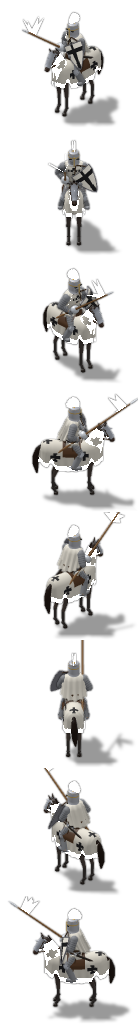
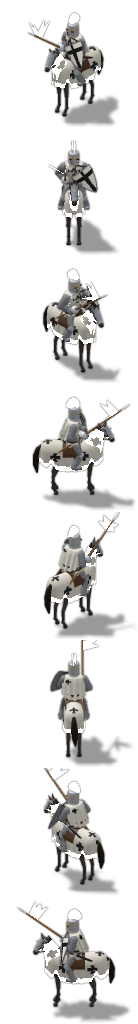
League units round 2c: the Hojo General falls onto his back (head and crest above the ground), holds a gourd-shaped gunbai with a thick gilt rim, cord and tassel out from the body, winds up from it in the attack, wears a larger sharp mitsu-uroko and a tachi slung outside the surcoat; polish on the p

diff --git a/ArtGen/units/models/league_hojo.py b/ArtGen/units/models/league_hojo.py
@@ -164,7 +164,7 @@ def g_hojo_menpo(g):
 # ------------------------------------------------------------ the jinbaori
 
 def g_hojo_jinbaori(g, mat='jinbaori', mon='mon', collar='collar_band', hem='jin_hem', length=0.50, flare=0.10,
-                    gap=0.065, open_front=38.0, mon_size=0.24):
+                    gap=0.065, open_front=38.0, mon_size=0.32):
     """The commander's campaign surcoat in the civ colour: over the
     shoulders and the armor, open in front, the skirts flaring to the knees
     and split at the back; a black band down the front edges and round the
@@ -179,11 +179,11 @@ def g_hojo_jinbaori(g, mat='jinbaori', mon='mon', collar='collar_band', hem='jin
     front = math.pi / 2
     of = math.radians(open_front)
     a0, a1 = front + of, front + 2 * math.pi - of
-    nA = 48
+    nA = 120
     angs = np.linspace(a0, a1, nA + 1)
 
     # the body: rows from the waist up over the shoulders (chest space)
-    zr = list(np.linspace(0.0, 0.27, 19)) + [0.29, 0.31, 0.325]
+    zr = list(np.linspace(0.0, 0.27, 46)) + [0.29, 0.31, 0.325]
     rows = []
     for z in zr:
         rx = float(np.interp(z, zs, [c[1] for c in chest])) + gap
@@ -205,7 +205,7 @@ def g_hojo_jinbaori(g, mat='jinbaori', mon='mon', collar='collar_band', hem='jin
         # the crest on the back: x the arc length from the centre of the back
         rx = 0.5 * (Pb[i, j, 0] ** 2 + Pb[i, j, 1] ** 2) ** 0.5 + 0.5 * (Pb[i + 1, j, 0] ** 2 + Pb[i + 1, j, 1] ** 2) ** 0.5
         x = (a - back) * rx * 0.92
-        if in_uroko(x, z - 0.14, mon_size):
+        if in_uroko(x, z - 0.135, mon_size, gap=0.08):
             return mm
         return jm
     out.append(('chest', grid_mesh(Pb, body_paint), None))
@@ -319,12 +319,21 @@ def g_hojo_kote(g, cloth='kote', plate='kote_plate'):
 
 
 def g_hojo_daisho(g):
-    """The katana and the wakizashi thrust through the sash at the left hip."""
+    """The general's tachi slung edge-down from the belt on its two hangers
+    at the left hip, outside the surcoat, hanging back at a natural angle;
+    the short wakizashi thrust through the sash in front."""
     from models.props_foot_ancient import katana_sheathed
     tw = g.tw
     k = katana_sheathed(g.mats)
-    out = [('pelvis', k.transformed(T(-0.24 * tw, 0.06, 0.06) @ M.rot_z(-4) @ M.rot_x(136)), None)]
-    out.append(('pelvis', k.transformed(T(-0.20 * tw, 0.10, 0.08) @ M.rot_z(-3) @ M.rot_x(128) @ M.scale(0.72)), None))
+    cord = g.m('lacing', '#c4503e')
+    x = -0.30 * tw
+    tachi = T(x, 0.10, 0.02) @ M.rot_y(-12) @ M.rot_x(136)
+    out = [('pelvis', k.transformed(tachi @ M.scale(0.86)), None)]
+    for d in (0.08, 0.22):
+        p0 = (tachi @ np.array([0, 0, d, 1], np.float32))[:3]
+        out.append(('pelvis', M.capsule((x * 0.82, p0[1], 0.10), tuple(p0), 0.009, 0.009, cord, seg=4, rings=1), None))
+    out.append(('pelvis', k.transformed(T(-0.10 * tw, 0.19 * tw, 0.10) @ M.rot_z(-30) @ M.rot_x(100)
+                                       @ M.scale(0.62)), None))
     return out
 
 
@@ -372,59 +381,83 @@ FA.register_extra(sys.modules[__name__])
 
 # ------------------------------------------------------------ props (grip at the origin, long axis +z)
 
+def _gourd(w=0.40, h=0.44, neck=0.09, n=40):
+    """The outline of a gunbai blade (x-z, centred on its base at z = 0):
+    a broad rounded top swelling from a narrow neck at the handle, the
+    gourd or pear shape of the real fans."""
+    pts = []
+    for k in range(n):
+        t = 2 * math.pi * k / n
+        # u from the base (0) to the top (1) and back
+        x0, z0 = math.sin(t), (1 - math.cos(t)) / 2
+        # wide at the top two thirds, pulled in toward the neck at the base
+        wz = 0.5 * w * (0.22 + 0.78 * math.sin(math.pi * min(1.0, z0 * 1.25 + 0.05)) ** 0.7)
+        pts.append((x0 * max(wz, neck / 2), z0 * h))
+    return pts
+
+
 def hojo_gunbai(mats, size=1.0):
-    """The gunbai: a lacquered iron war fan, a round blade on a short
-    handle; black, a gilt rim, a red sun on both faces; a red cord and
-    tassel from the pommel."""
+    """The gunbai: a lacquered war fan, a gourd-shaped blade on a stout
+    handle; black lacquer, a thick gilt rim, a red sun on both faces, a
+    gilt collar at the neck; a red cord from the pommel to a big tassel."""
     bm = P.mat(mats, 'gunbai', '#1e1c1a', spec=0.35, gloss=22)
     gm = P.mat(mats, 'gold', '#c4a050', spec=0.8, gloss=22, metal=True)
-    rm = P.mat(mats, 'sun', '#a8281e', spec=0.2)
-    cm = P.mat(mats, 'cord', '#8a2a22')
-    parts = [M.cylinder(0.018, 0.02, 0.24, bm, seg=8, z0=-0.10)]
-    parts.append(M.cylinder(0.026, 0.026, 0.02, gm, seg=8, z0=0.12))
-    parts.append(M.sphere(0.022, gm, (0, 0, -0.11), seg=8))
-    c = (0, 0, 0.33)
-    parts.append(M.disc(0.20, 0.21, 0.016, bm, seg=24).transformed(T(*c)))
-    parts.append(M.lathe([(-0.012, 0.20), (0.0, 0.212), (0.012, 0.20)], gm, seg=24).transformed(T(*c) @ M.rot_x(90)
-                                                                                                @ M.scale(1, 1.05, 1)))
+    rm = P.mat(mats, 'sun', '#b02a1e', spec=0.2)
+    cm = P.mat(mats, 'cord', '#a8322a')
+    parts = [M.cylinder(0.022, 0.024, 0.26, bm, seg=8, z0=-0.12)]
+    parts.append(M.cylinder(0.03, 0.03, 0.025, gm, seg=8, z0=0.115))
+    parts.append(M.sphere(0.026, gm, (0, 0, -0.13), seg=8))
+    base = 0.13
+    out = _gourd()
+    rim = [(x * 1.08, z * 1.06 - 0.012) for x, z in out]
+    # the blade (thin, in the x-z plane), the rim a thicker band behind its edge
+    parts.append(M.extrude(rim, 0.034, gm).transformed(T(0, 0, base)))
+    parts.append(M.extrude(out, 0.044, bm).transformed(T(0, 0, base)))
     for sy in (1, -1):
-        parts.append(M.disc(0.085, 0.085, 0.004, rm, seg=18).transformed(T(0, -sy * 0.01, c[2] + 0.02) @ M.rot_z(
-            0 if sy > 0 else 180)))
-    parts.append(M.capsule((0, 0, -0.12), (0.02, 0.02, -0.24), 0.008, 0.008, cm, seg=4, rings=1))
-    parts.append(M.capsule((0.02, 0.02, -0.24), (0.02, 0.02, -0.32), 0.022, 0.012, cm, seg=6, rings=1))
+        sun = M.disc(0.095, 0.095, 0.004, rm, seg=20).transformed(T(0, -sy * 0.024, base + 0.25) @ M.rot_z(
+            0 if sy > 0 else 180))
+        parts.append(sun)
+    # cord and tassel
+    parts.append(M.capsule((0, 0, -0.15), (0.03, 0.02, -0.26), 0.01, 0.01, cm, seg=4, rings=1))
+    parts.append(M.sphere(0.02, gm, (0.03, 0.02, -0.27), seg=6))
+    for a in range(6):
+        ang = 2 * math.pi * a / 6
+        parts.append(M.capsule((0.03, 0.02, -0.28), (0.03 + 0.025 * math.cos(ang), 0.02 + 0.025 * math.sin(ang), -0.40),
+                               0.012, 0.008, cm, seg=4, rings=1))
     return M.Mesh.concat(parts).transformed(M.scale(size))
 
 
 # ------------------------------------------------------------ the archetype
 
 def anim_death_general(base, ctx):
-    """Struck, he staggers, drops to his knees, and topples onto his side,
-    curled, an arm over his body: no spread-eagle, the skirts falling with
-    him."""
+    """Struck, he staggers back, his knees give and he falls onto his back,
+    one knee up, the fan arm flung out low beside him, the other hand at his
+    chest; the head and its crest stay above the ground (the stock deaths
+    end spread-eagled, the arms over the head)."""
     down = ctx.event('down', 0.55) if ctx is not None else 0.55
     down = min(max(down or 0.55, 0.35), 0.85)
     fk = {
         'thigh_r': (0, -4, 0), 'shin_r': (0, 0, 0), 'thigh_l': (0, 4, 0), 'shin_l': (0, 0, 0),
-        'arm_r': (20, -14, 0), 'forearm_r': (40, 0, 0), 'arm_l': (10, 14, 0), 'forearm_l': (30, 0, 0),
+        'arm_r': (30, -24, 0), 'forearm_r': (40, 0, 0), 'arm_l': (10, 14, 0), 'forearm_l': (30, 0, 0),
         'root_pos': (0, 0, 0), 'root_rot': (0, 0, 0), 'spine': (0, 0, 0), 'chest': (0, 0, 0), 'head': (0, 0, 0),
     }
     k = [
         (0.0, {}),
-        (0.18, {'root_rot': (14, 0, 6), 'root_pos': (0, -0.08, -0.03), 'chest': (14, 0, 6), 'head': (24, 0, 0),
-                'arm_r': (40, -30, 0), 'forearm_r': (70, 0, 0), 'arm_l': (50, 30, 0), 'forearm_l': (90, 0, 0),
-                'thigh_r': (12, -4, 0), 'shin_r': (-20, 0, 0)}),
-        (0.40, {'root_rot': (-10, 0, 8), 'root_pos': (0, 0.02, -0.40), 'chest': (-24, 0, 4), 'head': (-14, 0, 0),
-                'thigh_r': (95, -6, 0), 'shin_r': (-150, 0, 0), 'thigh_l': (90, 6, 0), 'shin_l': (-150, 0, 0),
-                'arm_r': (30, -20, 0), 'forearm_r': (60, 0, 0), 'arm_l': (60, 20, 0), 'forearm_l': (100, 0, 0)}),
-        (0.62, {'root_rot': (-20, 70, 10), 'root_pos': (0.30, 0.10, -0.70), 'chest': (-20, 0, 0), 'head': (-10, 10, 0),
-                'thigh_r': (80, -6, 0), 'shin_r': (-110, 0, 0), 'thigh_l': (70, 8, 0), 'shin_l': (-90, 0, 0),
-                'arm_r': (60, -10, 0), 'forearm_r': (40, 0, 0), 'arm_l': (50, 25, 0), 'forearm_l': (80, 0, 0)}),
-        (0.80, {'root_rot': (-14, 86, 8), 'root_pos': (0.38, 0.12, -0.76), 'chest': (-14, 0, 0), 'head': (-6, 14, 0),
-                'thigh_r': (64, -6, 0), 'shin_r': (-84, 0, 0), 'thigh_l': (50, 10, 0), 'shin_l': (-70, 0, 0),
-                'arm_r': (70, -6, 0), 'forearm_r': (30, 0, 0), 'arm_l': (40, 30, 0), 'forearm_l': (70, 0, 0)}),
-        (1.0, {'root_rot': (-12, 88, 8), 'root_pos': (0.38, 0.12, -0.77), 'chest': (-12, 0, 0), 'head': (-4, 16, 0),
-               'thigh_r': (62, -6, 0), 'shin_r': (-82, 0, 0), 'thigh_l': (48, 10, 0), 'shin_l': (-68, 0, 0),
-               'arm_r': (72, -6, 0), 'forearm_r': (28, 0, 0), 'arm_l': (38, 30, 0), 'forearm_l': (72, 0, 0)}),
+        (0.18, {'root_rot': (12, 0, 6), 'root_pos': (0, -0.06, -0.02), 'chest': (12, 0, 8), 'head': (20, 0, 0),
+                'arm_r': (50, -50, 0), 'forearm_r': (50, 0, 0), 'arm_l': (40, 30, 0), 'forearm_l': (90, 0, 0),
+                'thigh_r': (10, -4, 0), 'shin_r': (-18, 0, 0)}),
+        (0.38, {'root_rot': (30, 0, 10), 'root_pos': (0, -0.22, -0.28), 'chest': (12, 0, 8), 'head': (18, 0, 0),
+                'thigh_r': (62, -8, 0), 'shin_r': (-72, 0, 0), 'thigh_l': (44, 8, 0), 'shin_l': (-62, 0, 0),
+                'arm_r': (70, -60, 0), 'forearm_r': (30, 0, 0), 'arm_l': (40, 30, 0), 'forearm_l': (100, 0, 0)}),
+        (0.62, {'root_rot': (80, 0, 8), 'root_pos': (0, -0.55, -0.72), 'chest': (4, 0, 4), 'head': (6, 0, 10),
+                'thigh_r': (36, -10, 0), 'shin_r': (-36, 0, 0), 'thigh_l': (50, 12, 0), 'shin_l': (-80, 0, 0),
+                'arm_r': (40, -62, 0), 'forearm_r': (16, 0, 0), 'arm_l': (34, 26, 0), 'forearm_l': (104, 0, 0)}),
+        (0.78, {'root_rot': (90, 0, 6), 'root_pos': (0, -0.62, -0.78), 'chest': (0, 0, 2), 'head': (-4, 0, 22),
+                'thigh_r': (10, -12, 0), 'shin_r': (-10, 0, 0), 'thigh_l': (58, 14, 0), 'shin_l': (-100, 0, 0),
+                'arm_r': (18, -58, 0), 'forearm_r': (10, 0, 0), 'arm_l': (30, 24, 0), 'forearm_l': (108, 0, 0)}),
+        (1.0, {'root_rot': (90, 0, 6), 'root_pos': (0, -0.62, -0.78), 'chest': (0, 0, 2), 'head': (-2, 0, 24),
+               'thigh_r': (8, -12, 0), 'shin_r': (-8, 0, 0), 'thigh_l': (56, 14, 0), 'shin_l': (-98, 0, 0),
+               'arm_r': (16, -60, 0), 'forearm_r': (10, 0, 0), 'arm_l': (30, 24, 0), 'forearm_l': (108, 0, 0)}),
     ]
     anim = H.keys(dict(base, **{c: np.asarray(v, np.float32) for c, v in fk.items()}), k)
     return H.Action(lambda t: anim(H._warp(t, [(0.62, down)])), legs='fk', arms='fk')

diff --git a/ArtGen/units/models/league_mounted.py b/ArtGen/units/models/league_mounted.py
@@ -220,7 +220,7 @@ def heater_shield(mats, w=0.50, h=0.64, face='shield_face', cross='shield_cross'
     return M.Mesh.concat(parts)
 
 
-def order_lance(mats, length=2.6, grip=0.8):
+def order_lance(mats, length=2.3, grip=0.75):
     """The knight's lance: a long ash shaft swelling at the grip, a leather
     grip, a steel vamplate, a leaf head, and a swallow-tailed civ-colored
     pennon hanging from below the head."""
@@ -282,7 +282,6 @@ def campaign_hat(mats, m='hat', band='hatband'):
     # the crease: a fore-and-aft valley pressed down the middle of the crown
     Pc[2:, :, 2] -= 0.035 * np.exp(-(Pc[2:, :, 0] / 0.05) ** 2) * np.array([0.5, 1.0, 1.0], np.float32)[:, None]
     parts = [grid_mesh(Pc, lambda i, j: hm, closed_u=True)]
-    parts.append(M.capsule((0, -0.09, 0.245), (0, 0.08, 0.245), 0.012, 0.012, dk, seg=5, rings=1))
     # band and bow
     parts.append(M.cylinder(0.135, 0.135, 0.032, bm, seg=20, z0=0.11).transformed(M.scale(1, 1.08, 1)))
     parts.append(M.ellipsoid(0.012, 0.03, 0.02, bm, (0.135, 0.0, 0.127), seg=6))
@@ -417,12 +416,15 @@ class LeagueHorseRider(MT.HorseRider):
             (1.0, dict(lie, **rest_body)),
         ]
         anim = MT._k(B, k)
+        # where the weapon lands: clear of horse and rider (the knight's long
+        # lance further out, lying fore-and-aft)
+        land, land_yaw = (V3(-1.95, 0.25, 0.04), 0) if self.kit == 'teutonic' else (V3(-1.3, -0.4, 0.04), 20)
         wk = MT._k({c: B[c] for c in ('w.drop', 'w.pos', 'w.rot')},
                    [(0.0, {}), (0.30, {'w.drop': 0.0, 'w.pos': V3(0.3, -0.2, 2.3), 'w.rot': V3(-30, 0, 0)}),
                     (0.31, {'w.drop': 1.0, 'w.pos': V3(0.28, -0.3, 2.3), 'w.rot': V3(-20, 0, 5)}),
                     (0.46, {'w.pos': V3(-0.6, -0.4, 1.4), 'w.rot': V3(40, 0, 30)}),
-                    (0.60, {'w.pos': V3(-1.3, -0.4, 0.04), 'w.rot': V3(88, 0, 20)}),
-                    (1.0, {'w.pos': V3(-1.3, -0.4, 0.04), 'w.rot': V3(88, 0, 20)})])
+                    (0.60, {'w.pos': land, 'w.rot': V3(88, 0, land_yaw)}),
+                    (1.0, {'w.pos': land, 'w.rot': V3(88, 0, land_yaw)})])
 
         def fn(t):
             u = MT.warp(t, [(0.64, down)])
@@ -592,13 +594,14 @@ class LeagueHorseRider(MT.HorseRider):
         # the white mantle: from a cord at the neck over the shoulders and
         # down the back, spreading over the cantle; a cross on the left
         # shoulder
-        tk = [0.0, 0.10, 0.28, 0.55, 0.80, 1.0]
-        zk = [0.335, 0.30, 0.19, 0.02, -0.15, -0.30]
-        rxk = [0.12, 0.26, 0.295, 0.30, 0.31, 0.33]
-        ryk = [0.095, 0.16, 0.185, 0.19, 0.20, 0.21]
-        dyk = [-0.01, -0.02, -0.04, -0.07, -0.11, -0.15]
+        tk0 = [0.0, 0.10, 0.28, 0.55, 0.80, 1.0]
+        tk = list(np.linspace(0.0, 1.0, 19))     # rows fine enough to carry the shoulder cross
+        zk = list(np.interp(tk, tk0, [0.335, 0.30, 0.19, 0.02, -0.15, -0.30]))
+        rxk = list(np.interp(tk, tk0, [0.12, 0.26, 0.295, 0.30, 0.305, 0.30]))
+        ryk = list(np.interp(tk, tk0, [0.095, 0.16, 0.185, 0.19, 0.195, 0.20]))
+        dyk = list(np.interp(tk, tk0, [-0.01, -0.02, -0.04, -0.07, -0.10, -0.13]))
         a0, a1 = math.radians(132), math.radians(408)
-        angs = np.linspace(a0, a1, 37)
+        angs = np.linspace(a0, a1, 73)
         back = 1.5 * math.pi
         rows = []
         for t, zt, rxt, ryt, dyt in zip(tk, zk, rxk, ryk, dyk):
@@ -607,7 +610,7 @@ class LeagueHorseRider(MT.HorseRider):
                 d = min(abs(a - back) / (back - a0), 1.0)
                 f = 1.0 - 0.38 * d ** 1.6           # the hem rises toward the front edges
                 z = zk[0] - (zk[0] - zt) * f
-                pl = 0.040 * math.sin(11 * (a - back)) * t ** 0.6   # pleats from the shoulders, deeper below
+                pl = 0.030 * math.sin(11 * (a - back)) * t ** 0.6   # pleats from the shoulders, deeper below
                 row.append(((rxt + pl) * math.cos(a), dyt + (ryt + pl) * math.sin(a), z))
             rows.append(row)
         Pm = np.asarray(rows, np.float32)
@@ -618,7 +621,7 @@ class LeagueHorseRider(MT.HorseRider):
         def mpaint(i, j):
             a = 0.5 * (angs[j] + angs[j + 1])
             z = 0.5 * (Pm[i, j, 2] + Pm[i + 1, j + 1, 2])
-            if in_cross((a - math.radians(158)) * 0.30, z - 0.16, 0.075, 0.022):
+            if in_cross((a - math.radians(238)) * 0.24, z - 0.20, 0.075, 0.022):
                 return cross_r
             return mant
         parts.append(('chest', grid_mesh(Pm, mpaint), None))
@@ -799,6 +802,8 @@ class LeagueHorseRider(MT.HorseRider):
             hb.back_parts.append(H._shell([(0.0, 0.075, 0.10, 0, 0.0), (0.10, 0.07, 0.09, 0, -0.01),
                                            (0.15, 0.05, 0.06, 0, -0.03)], hood, math.radians(-10), math.radians(190),
                                           seg=10).transformed(T(*c)))
+        # the breast filling out where the neck meets the chest (no step there)
+        hb.body_parts.append(M.ellipsoid(0.16, 0.15, 0.24, hb.m_coat, (0, 0.58, 1.33), seg=14))
         # the US bit's brass bosses and a white blaze down the face
         for sx in (1, -1):
             hb.head_parts.append(M.lathe([(0.0, 0.03), (0.01, 0.03), (0.016, 0.0005)], brass, seg=10).transformed(

diff --git a/ArtGen/units/catalog/league_mdj.py b/ArtGen/units/catalog/league_mdj.py
@@ -44,9 +44,10 @@ UNITS = {
                  ('hojo_jinbaori', {'open_front': 30.0, 'length': 0.40, 'gap': 0.055}), 'hojo_obi', 'hojo_daisho'],
         'weapon': 'sword', 'props': {'sword': ('katana', {'size': 1.1}), 'gunbai': ('hojo_gunbai', {})},
         'fan_actions': ['DEFAULT', 'RUN', 'ATTACK1', 'DEATH'],
+        # the fan held out to the right at chest height, the left hand at the sword
         'stance': {'foot_r': (0.22, 0.05, 0.08), 'foot_l': (-0.22, -0.05, 0.08),
-                   'hand_l': (-0.24, 0.16, 0.98), 'elbow_l': (-0.8, -0.4, -0.3)},
-        'overrides': {'DEFAULT': {'hand_r': (0.36, 0.22, 1.16), 'w_main': (-18, 14, 0), 'elbow_r': (0.9, -0.4, -0.3)}},
+                   'hand_l': (-0.24, 0.16, 0.98), 'elbow_l': (-0.8, -0.4, -0.3),
+                   'hand_r': (0.48, 0.18, 1.18), 'w_main': (22, 16, 0), 'elbow_r': (0.9, -0.3, -0.3)},
                 'actions': {'ATTACK1': 'attack_slash'},
     },
 }

diff --git a/ArtGen/_previews/units/round2/look.py b/ArtGen/_previews/units/round2/look.py
@@ -34,7 +34,11 @@ def cells(unit, action, frame, dirs):
     out = []
     for d in dirs:
         c = tinted(base[d * H:(d + 1) * H, frame * W:(frame + 1) * W], tint[d * H:(d + 1) * H, frame * W:(frame + 1) * W])
-        out.append(Image.fromarray(c, 'RGBA'))
+        # placed in the full 240x240 unit space (2x), so every unit's anchor
+        # lands at the same spot of its cell, as on the map
+        full = Image.new('RGBA', (480, 480), (0, 0, 0, 0))
+        full.alpha_composite(Image.fromarray(c, 'RGBA'), (max(fl.offset_left * 2, 0), max(fl.offset_top * 2, 0)))
+        out.append(full)
     return out
 
 

diff --git a/ArtGen/units/catalog/league_mounted.py b/ArtGen/units/catalog/league_mounted.py
@@ -47,7 +47,7 @@ UNITS = {
         'archetype': 'league_horse_rider',
         'kit': 'teutonic',
         'rider_scale': 0.99,
-        'scale': 1.03,
+        'scale': 1.0,
         'horse': {'coat': '#3e3632', 'mane': '#1e1612', 'points': '#34302e', 'mane_h': 0.02,
                   'blanket': None, 'saddle_visible': False, 'girth': False, 'breastplate': False,
                   'chanfron': True, 'barding_steel': '#9a9ea6',

diff --git a/ArtGen/_previews/units/round2/hojo_general/design.md b/ArtGen/_previews/units/round2/hojo_general/design.md
@@ -112,3 +112,27 @@ Measured: civ 30.3% (Minamoto 49.5, Samurai 19.9), sprite 1899 px (Minamoto 1663
 r08 measured: area 542 against 430-496, civ 27.8% (in range 18.6-45.7), brightness 74.3 against 79-95 (too dark).
 Change: scale 0.76, lacquer #6a4e3c, hakama lighter. r10 measured: area 508 (Minamoto 496; the fan and surcoat),
 civ 26.9%, brightness 81.2: inside the range.
+
+## Round 2c (second review: Teutonic Knight and Roughrider pass, the Hojo General fails)
+
+### Round 12 (r11.png)
+- Death: back to a fall onto the back (stagger, knees give, falls back), one knee up, the fan arm out low, the other
+  hand at the chest; the head and crest stay above the ground. No curl, no spread arms.
+- Gunbai: a gourd-shaped blade (broad rounded top, pinched neck at the handle), a thick gilt rim, a red sun on each
+  face, a gilt collar, the pommel, a red cord and a six-strand tassel; held out to the right at chest height.
+- Attack: the held-fan pose is now the stance itself, so the attack winds up from it (no jump from the knee).
+- Crest: larger (0.32 m) and painted on a finer grid (120 x 49): three sharp triangles.
+- Swords: a tachi slung from the belt on two red hangers at the left hip, outside the surcoat, tips back and down;
+  the wakizashi in the sash in front. Nothing passes through the skirt.
+- Cell placement: the anchors agree (Army 120.5, Samurai 121.0 in unit space); the 55 px was my look sheet, which
+  centred each flic's own canvas. look.py now places every cell in the full 240x240 unit space, so feet line up.
+Seen: the fan read edge-on and too close to the body.
+
+### Round 13 (r12.png)
+Fan tilted back to face the camera (w_main 22/16) and held further out; tachi steeper and 0.86 long. Seen: the
+gourd fan with its sun and tassel stands clear of the body at 1x; the crest reads as three triangles.
+
+### Round 14 (attack.png, death.png in five directions)
+Attack eases from the held fan through the wind-up to the sweep; death ends on the back in all five directions,
+crest up, limbs apart. Measured (meas1x.py, 1x rows): area 507 (Minamoto 496, Samurai 430), civ 25.9% (45.5 / 18.6),
+non-civ brightness 82.8 (94.8 / 79.0).

diff --git a/ArtGen/_previews/units/round2/teutonic_knight/design.md b/ArtGen/_previews/units/round2/teutonic_knight/design.md
@@ -127,3 +127,10 @@ crinet and lining.
 r09 measured: area 856 against the Knight's 790 (8% over), civ 17.2% (Knight 17.6, Sipahi 26.9), non-civ brightness
 119 against 104-111 (the white too bright). Change: scale 1.03, the cloth and mantle whites toned to #c8c4ba/#ccc8be,
 civ hem 0.15. r11 measured: area 780 (Knight 790, Sipahi 788), civ 18.1%, brightness 110.9: all inside the stock range.
+
+## Round 2c polish (passed; changed only what the review listed)
+- Mantle: rows refined (19) so the black cross on the left shoulder actually paints (6 rows had been too coarse to
+  carry it); placed on the upper left back where the arm and shield don't hide it; the flare from behind softened.
+- Lance 2.6 -> 2.3 m so the pennon stays inside the frame; scale 1.03 -> 1.0 to hold the area (the shorter lance
+  raised the fitted scale). The dropped lance lands fore-and-aft clear of horse and rider.
+- Measured: area 781 (Knight 794, Sipahi 790), civ 19.6%, non-civ brightness 110.7 (111.4 / 104.7).

diff --git a/ArtGen/_previews/units/round2/roughrider/design.md b/ArtGen/_previews/units/round2/roughrider/design.md
@@ -110,3 +110,8 @@ lands apart. Measured: civ 15.3% (Cavalry 16.3, Cossack 10.3), sprite 3391 px (C
 ### Round 11 (final.png; meas1x.py)
 Measured on the 1x rows: area 937 (Cavalry 974, Cossack 854), civ 12.9% (13.8 / 10.7), non-civ brightness 76.8
 (90.2 / 75.7): inside the stock range; no change needed.
+
+## Round 2c polish (passed; changed only what the review listed)
+- A filling volume at the breast where the neck meets the chest (the step is gone in the side views).
+- Hat: the dark crease bar removed; the crown keeps its smooth pressed crease (a clean pinched top).
+- Measured: area 937 (Cavalry 974, Cossack 854), civ 12.9%, non-civ brightness 76.9 (90.2 / 75.7). Unchanged.
